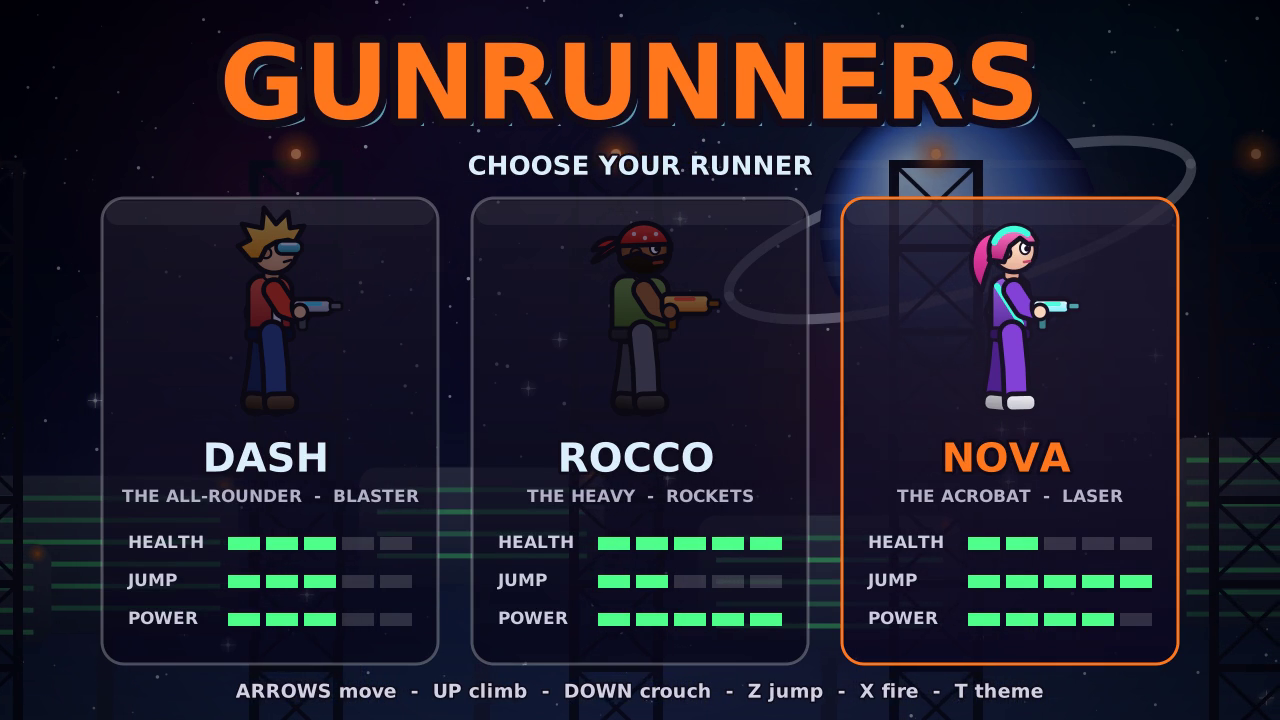
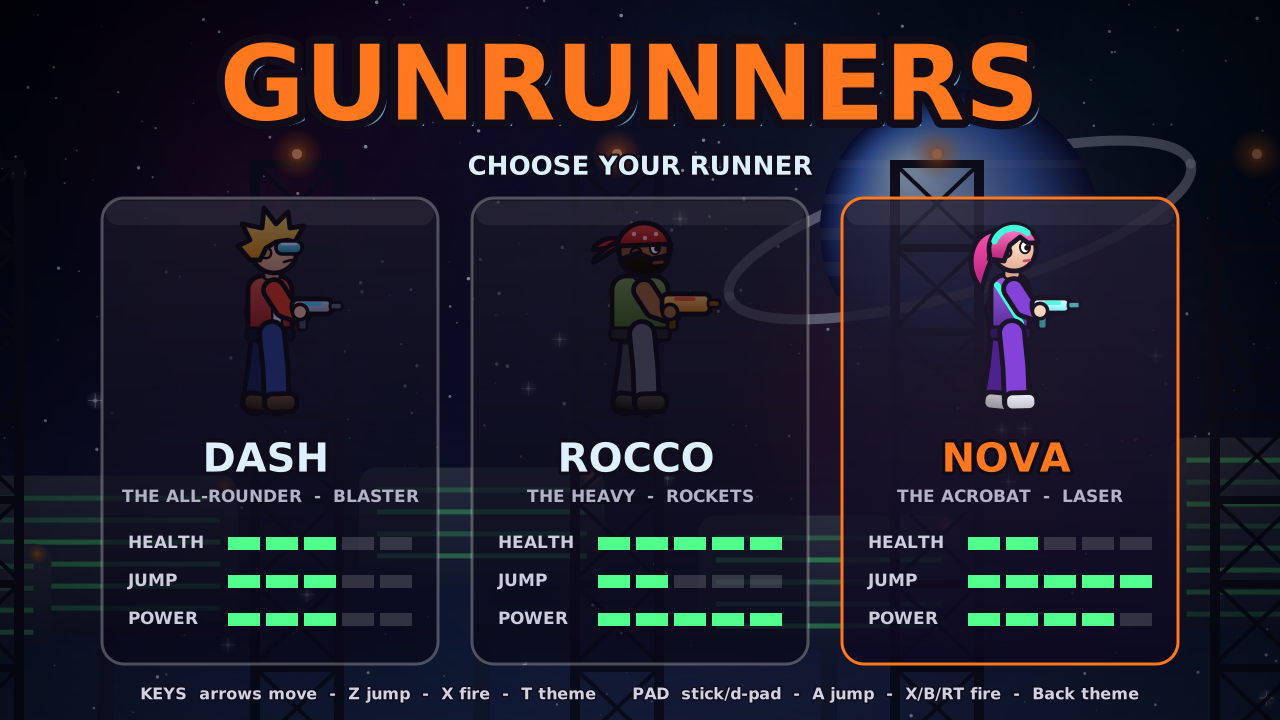
Add gamepad controls alongside the keyboard
SDL2 GameController input with hotplugging: left stick or d-pad moves,
A jumps, X/B/RB/right trigger fire, Start confirms, Back cycles the theme.
The select screen and README list both control schemes.

Claude-Session: https://claude.ai/code/session_01Kgj3ms9kRvjfLWo6NPbeaj

diff --git a/src/frontend/controls.cpp b/src/frontend/controls.cpp
@@ -1,0 +1,128 @@
+#include "frontend/controls.hpp"
+
+#include <algorithm>
+#include <cstdio>
+
+namespace gr
+{
+
+namespace
+{
+
+// Half deflection, so a resting or slightly worn stick never walks the
+// runner, and diagonals still count as up/down plus left/right.
+constexpr Sint16 kStickThreshold = 16000;
+constexpr Sint16 kTriggerThreshold = 12000;
+
+} // namespace
+
+Controls::Controls()
+{
+  if (SDL_InitSubSystem(SDL_INIT_GAMECONTROLLER) != 0)
+  {
+    std::fprintf(stderr, "gamepads unavailable: %s\n", SDL_GetError());
+    return;
+  }
+  // Pads that are already plugged in also arrive as
+  // SDL_CONTROLLERDEVICEADDED events, which open them.
+}
+
+Controls::~Controls()
+{
+  for (auto* pad : mPads)
+    SDL_GameControllerClose(pad);
+  if (SDL_WasInit(SDL_INIT_GAMECONTROLLER))
+    SDL_QuitSubSystem(SDL_INIT_GAMECONTROLLER);
+}
+
+void Controls::open(int deviceIndex)
+{
+  if (!SDL_IsGameController(deviceIndex))
+    return;
+  const SDL_JoystickID id = SDL_JoystickGetDeviceInstanceID(deviceIndex);
+  for (auto* pad : mPads)
+    if (SDL_JoystickInstanceID(SDL_GameControllerGetJoystick(pad)) == id)
+      return;
+  if (SDL_GameController* pad = SDL_GameControllerOpen(deviceIndex))
+  {
+    mPads.push_back(pad);
+    const char* name = SDL_GameControllerName(pad);
+    std::fprintf(stderr, "gamepad connected: %s\n", name ? name : "unknown");
+  }
+}
+
+void Controls::close(SDL_JoystickID id)
+{
+  auto it = std::find_if(mPads.begin(), mPads.end(), [id](SDL_GameController* pad) {
+    return SDL_JoystickInstanceID(SDL_GameControllerGetJoystick(pad)) == id;
+  });
+  if (it == mPads.end())
+    return;
+  std::fprintf(stderr, "gamepad disconnected\n");
+  SDL_GameControllerClose(*it);
+  mPads.erase(it);
+}
+
+Controls::Action Controls::handleEvent(const SDL_Event& ev)
+{
+  switch (ev.type)
+  {
+    case SDL_QUIT:
+      return Action::Quit;
+    case SDL_KEYDOWN:
+      if (ev.key.repeat)
+        break;
+      if (ev.key.keysym.sym == SDLK_ESCAPE)
+        return Action::Quit;
+      if (ev.key.keysym.sym == SDLK_t)
+        return Action::CycleTheme;
+      break;
+    case SDL_CONTROLLERDEVICEADDED:
+      open(ev.cdevice.which);
+      break;
+    case SDL_CONTROLLERDEVICEREMOVED:
+      close(ev.cdevice.which);
+      break;
+    case SDL_CONTROLLERBUTTONDOWN:
+      if (ev.cbutton.button == SDL_CONTROLLER_BUTTON_BACK)
+        return Action::CycleTheme;
+      break;
+    default:
+      break;
+  }
+  return Action::None;
+}
+
+Input Controls::read() const
+{
+  const Uint8* k = SDL_GetKeyboardState(nullptr);
+  Input in;
+  in.left = k[SDL_SCANCODE_LEFT] || k[SDL_SCANCODE_A];
+  in.right = k[SDL_SCANCODE_RIGHT] || k[SDL_SCANCODE_D];
+  in.up = k[SDL_SCANCODE_UP] || k[SDL_SCANCODE_W];
+  in.down = k[SDL_SCANCODE_DOWN] || k[SDL_SCANCODE_S];
+  in.jump = k[SDL_SCANCODE_Z] || k[SDL_SCANCODE_SPACE];
+  in.fire = k[SDL_SCANCODE_X] || k[SDL_SCANCODE_LCTRL] || k[SDL_SCANCODE_RCTRL];
+  in.confirm = k[SDL_SCANCODE_RETURN];
+
+  for (auto* pad : mPads)
+  {
+    auto button = [pad](SDL_GameControllerButton b) { return SDL_GameControllerGetButton(pad, b) != 0; };
+    auto axis = [pad](SDL_GameControllerAxis a) { return SDL_GameControllerGetAxis(pad, a); };
+    const Sint16 sx = axis(SDL_CONTROLLER_AXIS_LEFTX);
+    const Sint16 sy = axis(SDL_CONTROLLER_AXIS_LEFTY);
+
+    in.left = in.left || button(SDL_CONTROLLER_BUTTON_DPAD_LEFT) || sx < -kStickThreshold;
+    in.right = in.right || button(SDL_CONTROLLER_BUTTON_DPAD_RIGHT) || sx > kStickThreshold;
+    in.up = in.up || button(SDL_CONTROLLER_BUTTON_DPAD_UP) || sy < -kStickThreshold;
+    in.down = in.down || button(SDL_CONTROLLER_BUTTON_DPAD_DOWN) || sy > kStickThreshold;
+    // South face button jumps; west, east or the right trigger fire.
+    in.jump = in.jump || button(SDL_CONTROLLER_BUTTON_A);
+    in.fire = in.fire || button(SDL_CONTROLLER_BUTTON_X) || button(SDL_CONTROLLER_BUTTON_B) ||
+      button(SDL_CONTROLLER_BUTTON_RIGHTSHOULDER) || axis(SDL_CONTROLLER_AXIS_TRIGGERRIGHT) > kTriggerThreshold;
+    in.confirm = in.confirm || button(SDL_CONTROLLER_BUTTON_START) || button(SDL_CONTROLLER_BUTTON_A);
+  }
+  return in;
+}
+
+} // namespace gr

diff --git a/src/main.cpp b/src/main.cpp
@@ -6,6 +6,7 @@
 // clips without a display.
 
 #include "frontend/game.hpp"
+#include "frontend/controls.hpp"
 
 #include <SDL.h>
 #include <cairo.h>
@@ -276,20 +277,6 @@ int runHeadless(const CliOptions& o)
   return result;
 }
 
-Input readKeyboard()
-{
-  const Uint8* k = SDL_GetKeyboardState(nullptr);
-  Input in;
-  in.left = k[SDL_SCANCODE_LEFT] || k[SDL_SCANCODE_A];
-  in.right = k[SDL_SCANCODE_RIGHT] || k[SDL_SCANCODE_D];
-  in.up = k[SDL_SCANCODE_UP] || k[SDL_SCANCODE_W];
-  in.down = k[SDL_SCANCODE_DOWN] || k[SDL_SCANCODE_S];
-  in.jump = k[SDL_SCANCODE_Z] || k[SDL_SCANCODE_SPACE];
-  in.fire = k[SDL_SCANCODE_X] || k[SDL_SCANCODE_LCTRL] || k[SDL_SCANCODE_RCTRL];
-  in.confirm = k[SDL_SCANCODE_RETURN];
-  return in;
-}
-
 int runWindowed(const CliOptions& o)
 {
   if (SDL_Init(SDL_INIT_VIDEO) != 0)
@@ -321,6 +308,7 @@ int runWindowed(const CliOptions& o)
       audio.reset();
   }
   Game game(o.game, renderer, audio.get());
+  Controls controls;
   const double tickSeconds = 1.0 / 60.0;
   const double freq = double(SDL_GetPerformanceFrequency());
   Uint64 last = SDL_GetPerformanceCounter();
@@ -333,14 +321,16 @@ int runWindowed(const CliOptions& o)
     SDL_Event ev;
     while (SDL_PollEvent(&ev))
     {
-      if (ev.type == SDL_QUIT)
-        running = false;
-      if (ev.type == SDL_KEYDOWN && !ev.key.repeat)
+      switch (controls.handleEvent(ev))
       {
-        if (ev.key.keysym.sym == SDLK_ESCAPE)
+        case Controls::Action::Quit:
           running = false;
-        if (ev.key.keysym.sym == SDLK_t)
+          break;
+        case Controls::Action::CycleTheme:
           game.cycleTheme();
+          break;
+        case Controls::Action::None:
+          break;
       }
     }
 
@@ -350,7 +340,7 @@ int runWindowed(const CliOptions& o)
     accumulator = std::min(accumulator, 0.25);
     while (accumulator >= tickSeconds && running)
     {
-      running = game.tick(readKeyboard());
+      running = game.tick(controls.read());
       accumulator -= tickSeconds;
       ++frames;
       if (o.maxFrames >= 0 && frames >= o.maxFrames)

diff --git a/src/frontend/controls.hpp b/src/frontend/controls.hpp
@@ -1,0 +1,47 @@
+#pragma once
+
+#include "game/input.hpp"
+
+#include <SDL.h>
+
+#include <vector>
+
+namespace gr
+{
+
+// Keyboard and gamepad input for the windowed game. Gamepads go through
+// SDL's GameController API, so any pad SDL knows (Xbox, PlayStation,
+// Switch Pro, 8BitDo, Steam Deck, most generic USB pads) uses the same
+// layout. Pads can be plugged in and out while the game runs; extra
+// mappings can be supplied with the SDL_GAMECONTROLLERCONFIG environment
+// variable.
+class Controls
+{
+public:
+  Controls();
+  ~Controls();
+  Controls(const Controls&) = delete;
+  Controls& operator=(const Controls&) = delete;
+
+  enum class Action
+  {
+    None,
+    Quit,
+    CycleTheme,
+  };
+
+  // Feed every SDL event through here. Handles hotplugging and returns the
+  // one-shot actions (quit, theme switch) that are not part of Input.
+  Action handleEvent(const SDL_Event& ev);
+
+  // Current state of the keyboard and all connected pads combined.
+  Input read() const;
+
+private:
+  void open(int deviceIndex);
+  void close(SDL_JoystickID id);
+
+  std::vector<SDL_GameController*> mPads;
+};
+
+} // namespace gr

diff --git a/src/frontend/game.cpp b/src/frontend/game.cpp
@@ -324,8 +324,8 @@ void Game::renderSelect()
     }
   }
 
-  r.drawText("ARROWS move  -  UP climb  -  DOWN crouch  -  Z jump  -  X fire  -  T theme", cx, 680,
-    {19.0f, rgb(210, 210, 228), kInk}, Align::Center);
+  r.drawText("KEYS  arrows move  -  Z jump  -  X fire  -  T theme      PAD  stick/d-pad  -  A jump  -  X/B/RT fire  -  Back theme",
+    cx, 684, {16.0f, rgb(210, 210, 228), kInk}, Align::Center);
 }
 
 void Game::renderPlayOverlay()

diff --git a/README.md b/README.md
@@ -34,16 +34,26 @@ cmake --build build -j
 ./build/gunrunners
 ```
 
-| Key | Action |
-|-----|--------|
-| Left / Right (A / D) | walk, pick a runner |
-| Up (W) | climb a ladder, aim up, pull your legs in on a hang bar; hold to look up |
-| Down (S) | crouch, aim down from a hang bar; hold to look down |
-| Z / Space | jump (tap for a short hop), down+jump drops from a hang bar |
-| X / Ctrl | fire; with the flamethrower, down+fire is a jetpack |
-| Enter | confirm |
-| T | cycle theme (Neon Overdrive, Lost Temple, Station Zero) |
-| Esc | quit |
+Play with the keyboard or a gamepad (both work at the same time):
+
+| Keyboard | Gamepad | Action |
+|----------|---------|--------|
+| Left / Right (A / D) | left stick or d-pad | walk, pick a runner |
+| Up (W) | stick or d-pad up | climb a ladder, aim up, pull your legs in on a hang bar; hold to look up |
+| Down (S) | stick or d-pad down | crouch, aim down from a hang bar; hold to look down |
+| Z / Space | A (bottom face button) | jump (tap for a short hop), down+jump drops from a hang bar |
+| X / Ctrl | X or B, RB, right trigger | fire; with the flamethrower, down+fire is a jetpack |
+| Enter | Start (or A) | confirm |
+| T | Back / Select | cycle theme (Neon Overdrive, Lost Temple, Station Zero) |
+| Esc | | quit |
+
+Gamepads use SDL2's GameController API, so Xbox, PlayStation, Switch Pro,
+8BitDo, Steam Deck and most generic USB or Bluetooth pads work with the
+same layout (button names above are Xbox style; on PlayStation A is Cross
+and X is Square). Pads can be plugged in or out while the game runs. A pad
+SDL does not recognise can be added with the `SDL_GAMECONTROLLERCONFIG`
+environment variable (a mapping line from a tool such as
+`sdl2-jstest` or the SDL GameController DB).
 
 Useful flags: `--theme N`, `--character N`, `--skip-menu`, `--autoplay` (the
 bot plays), `--level PATH`, `--fullscreen`, `--no-audio`, `--trace` (prints
@@ -163,7 +173,6 @@ docs/          design directions and media
   destructible walls), secret areas, a boss.
 - More levels and an episode map.
 - A proper level editor workflow (e.g. Tiled `.tmx` import).
-- Gamepad support.
 
 ## License
 
